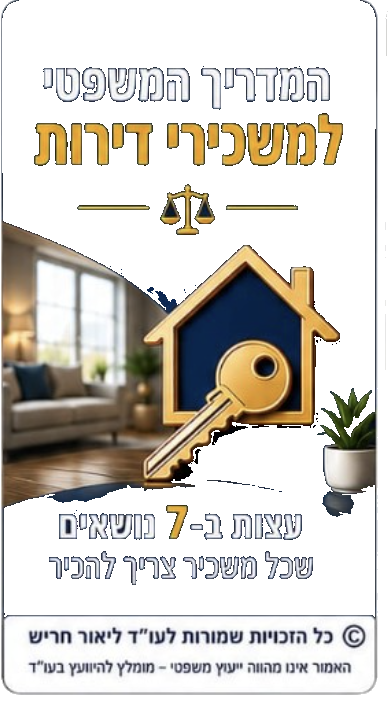
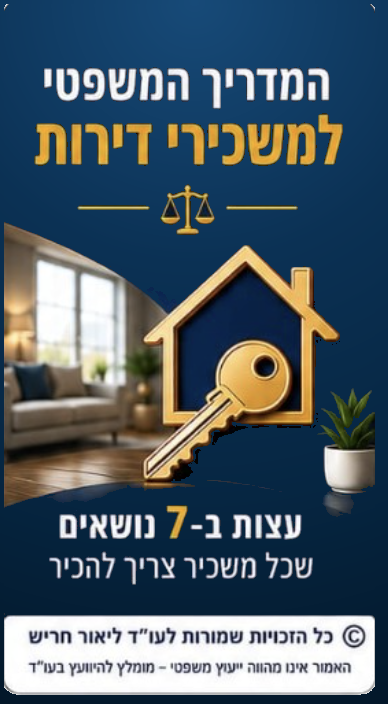
Update renters-slide-1.png and enhance CSS for blur and opacity effects in MediaShowcase component to improve visual hierarchy and background texture.

diff --git a/src/components/MediaShowcase.tsx b/src/components/MediaShowcase.tsx
@@ -144,7 +144,9 @@ function Lightbox({ item, onClose }: { item: LightboxItem; onClose: () => void }
                       '--direction': Math.sign(i - active),
                       '--abs-offset': distance / 3,
                       pointerEvents: visible ? 'auto' : 'none',
-                      opacity: distance >= MAX_VISIBILITY ? 0 : 1,
+                      // Fade neighbours out progressively so the active slide
+                      // dominates instead of competing with full-opacity cards.
+                      opacity: distance >= MAX_VISIBILITY ? 0 : 1 - distance * 0.4,
                       display: distance > MAX_VISIBILITY ? 'none' : 'block',
                     } as CSSProperties
                   }

diff --git a/src/index.css b/src/index.css
@@ -1202,7 +1202,9 @@ body {
   cursor: pointer;
   transform: rotateY(calc(var(--offset) * 50deg)) scaleY(calc(1 + var(--abs-offset) * -0.4))
     translateZ(calc(var(--abs-offset) * -30rem)) translateX(calc(var(--direction) * -5rem));
-  filter: blur(calc(var(--abs-offset) * 1rem));
+  /* Recede neighbours: more blur the further out, plus dimming so they read as
+     quiet background texture rather than competing white sheets. */
+  filter: blur(calc(var(--abs-offset) * 1.2rem)) brightness(calc(1 - var(--abs-offset) * 0.55));
   transition: all 0.3s ease-out;
 }
 
